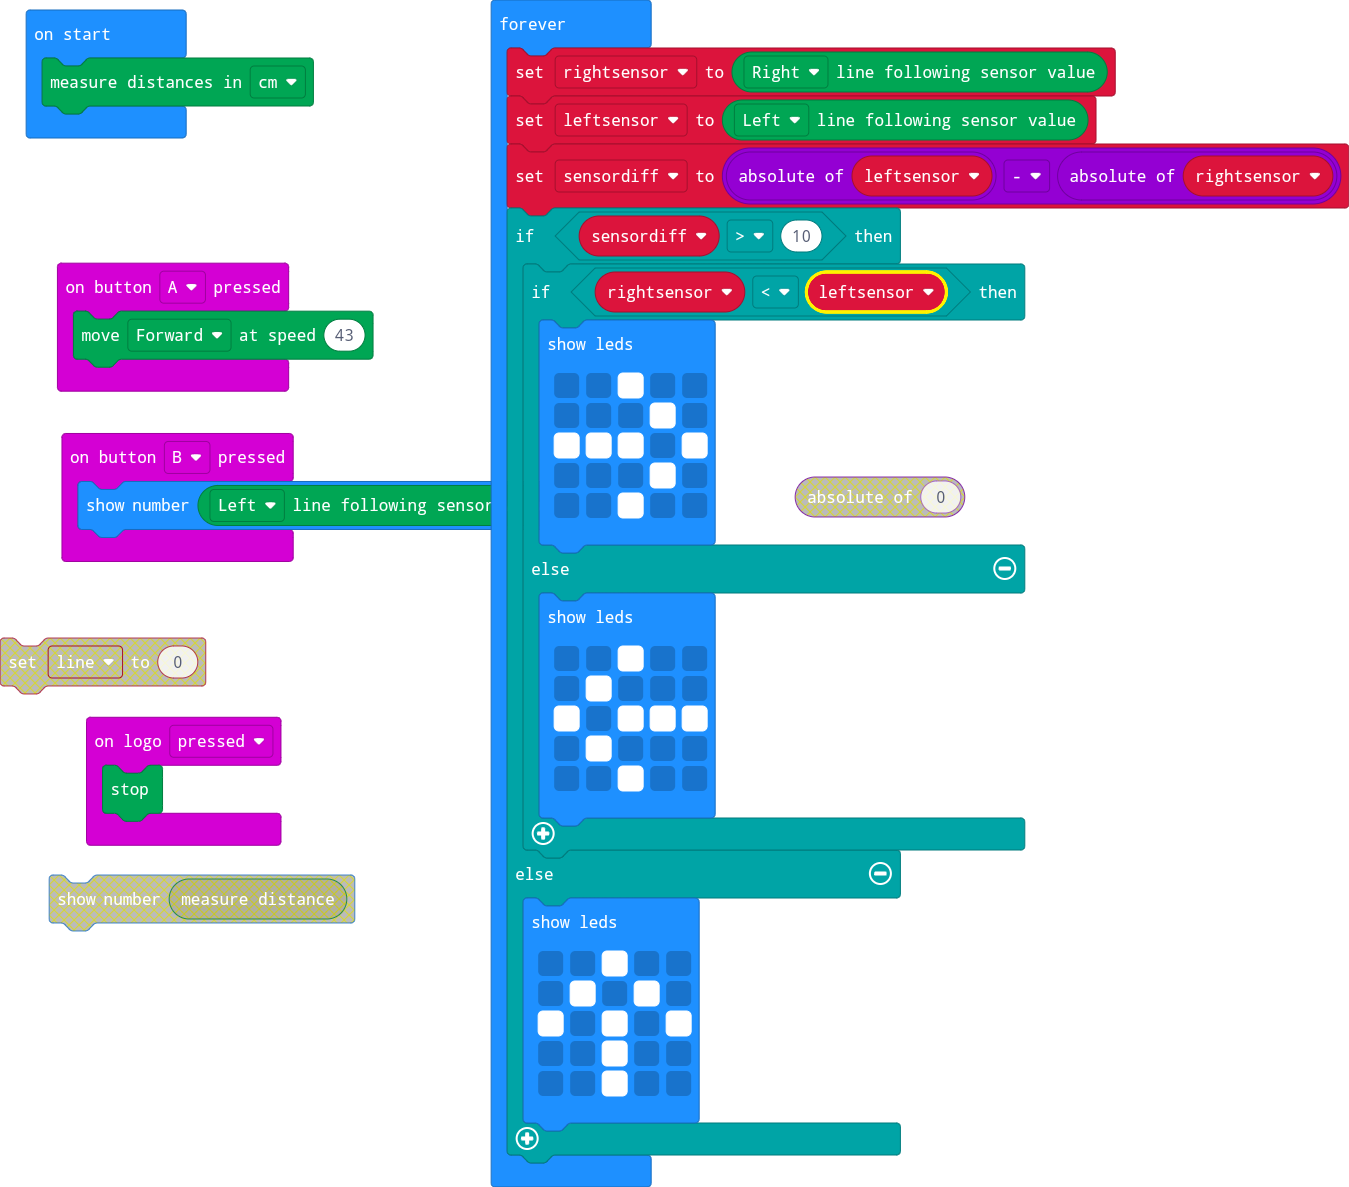
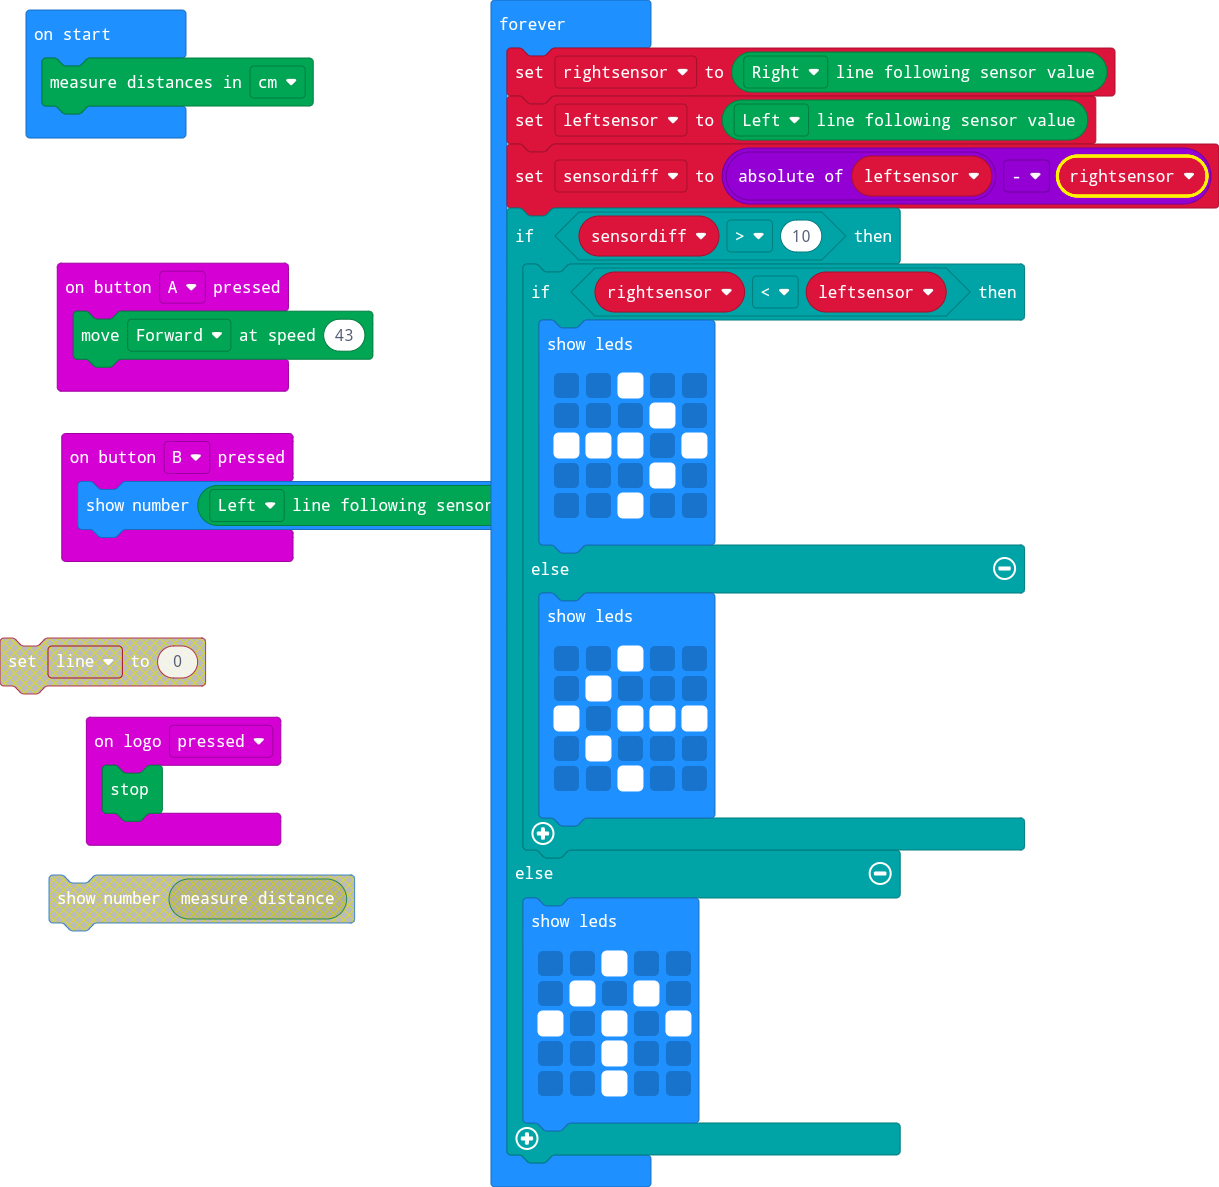
Update main.blocks, main.ts

diff --git a/main.ts b/main.ts
@@ -14,7 +14,7 @@ Kitronik_Move_Motor.setUltrasonicUnits(Kitronik_Move_Motor.Units.Centimeters)
 basic.forever(function () {
     rightsensor = Kitronik_Move_Motor.readSensor(Kitronik_Move_Motor.LfSensor.Right)
     leftsensor = Kitronik_Move_Motor.readSensor(Kitronik_Move_Motor.LfSensor.Left)
-    sensordiff = Math.abs(leftsensor) - Math.abs(rightsensor)
+    sensordiff = Math.abs(leftsensor) - rightsensor
     if (sensordiff > 10) {
         if (rightsensor < leftsensor) {
             basic.showLeds(`
